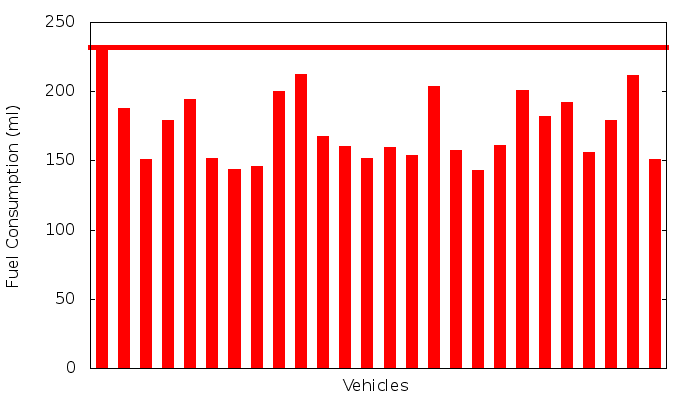
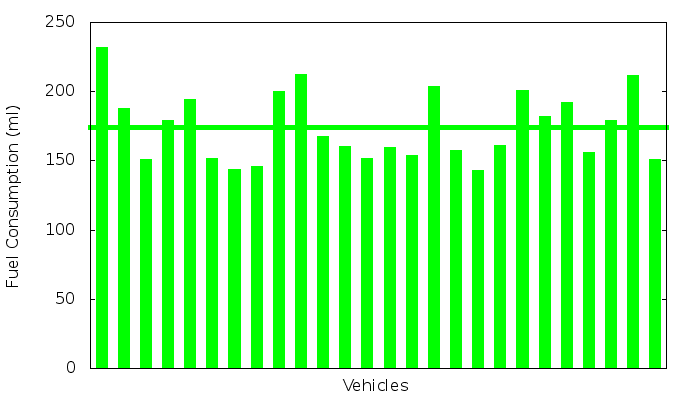
more tests

Changed region(s): [[0.12, 0.09, 0.96, 0.93]]

diff --git a/Article/src/TestResults.tex b/Article/src/TestResults.tex
@@ -33,24 +33,46 @@ The traffic light for this figure is the first junctions driving from Vesterbro.
 The purpose of \tech is to reduce the fuel consumption at least for the vehicles using the system. 
 We use SUMO's build-in function to calculate the vehicles fuel consumption, which is explained in \cite{SUMOFuel}.
 
-%
-
-\begin{comment}
-Figure~\ref{fig:TestResults:fuelRoute} plots the total fuel consumption for all vehicles driving on the selected route. 
-The results clearly show that using \tech in this setup will reduce the fuel consumption significantly.
-Acrose all routes, we see a reduction from an average of 130 $mL$ to an average of 96 $mL$, which is a reduction of 29 \%.
-If we only look at route 1, we observe an average fuel consumption without \tech at 175 $mL$, and 117 $mL$ with \tech.
-This is again a significant reduction in fuel consumption in 33 \%. %TODO fix number
-\end{comment}
-
-\begin{figure}[htb]
-\includegraphics[width=0.5\textwidth]{images/tp0/fuelRouteControlled100.png}
-\caption{Fuel graph}
+The total fuel consumption for all vehicles in the network is plotted in Figure~\ref{fig:TestResults:fuelTotal}.
+Figure~\ref{fig:TestResults:fuelTotal} plots the fuel consumption for all vehicles in the network for two different simulations: one where all vehicles use \tech (blue) and one where no vehicles are using \tech (green).
+The average fuel consumption when all vehicles use \tech is about $77 ml$, and about $108 ml$ when noone use \tech.
+We therefore see a significant overall reduction in fuel consumption in this setting if \tech is used by everybody.
+Looking at just the selected route through the network, we see the same tendency (see Figure~\ref{fig:TestResults:fuelRoute}). 
+The average fuel consumption with \tech is about $114 ml$ and about $166 ml$ without. 
+\begin{figure}[h]
+\includegraphics[width=0.5\textwidth]{images/tp0/fuelTotal.png}
+\caption{Fuel consumption for all vehicles in the network. Blue: 100\% use \tech, green: 0\% use \tech}
+\label{fig:TestResults:fuelTotal}
+\end{figure}
+\begin{figure}[h]
+\includegraphics[width=0.5\textwidth]{images/tp0/fuelRoute.png}
+\caption{Fuel consumption for all vehicles on the selected route}
 \label{fig:TestResults:fuelRoute}
 \end{figure}
 
+It is, however, also interesting to investigate the influence \tech has when only a few drivers use it.
+Figure~\ref{fig:TestResults:fuelControlled10} and~\ref{fig:TestResults:fuelUncontrolled10} plot the fuel consumption for 10\% of the vehicles are using \tech.
+Figure~\ref{fig:TestResults:fuelControlled10} shows the 10 \% using \tech, and Figure~\ref{fig:TestResults:fuelUncontrolled10} show the 90 \% not using \tech.
+We see that the average fuel consumption is about $119 ml$ for the 10 \% using \tech, and about $168$ for the 90 \% not using it.
+The fuel consumption is less for those who use \tech, and the fuel consumption is only increased by $1 ml$ for those who do not use \tech compared to the situation where no vehicles used \tech.
+We see the same results when 50 \% of the vehicles use \tech.
+
+We can therefore conclude that in the tested use case, we see a significate reduction in fuel consumption even when it is only implemented in a small subset of the vehicles. 
+Moreover, vehicles using \tech does not have a negative influence the other fuel consumption of the vehicles.
+
+\begin{figure}[h]
+\includegraphics[width=0.5\textwidth]{images/tp0/fuelRouteControlled10.png}
+\caption{Fuel consumption for the 10 \% of the vehicles driving with \tech on the selected route}
+\label{fig:TestResults:fuelControlled10}
+\end{figure}
+\begin{figure}[h]
+\includegraphics[width=0.5\textwidth]{images/tp0/fuelRouteUncontrolled10.png}
+\caption{Fuel consumption for the 90 \% of the vehicles driving without \tech on the selected route}
+\label{fig:TestResults:fuelUncontrolled10}
+\end{figure}
+
 \subsection{Distance}
-Figure~\ref{fig:TestResults:distance100} shows the distance ?? vehicles drive on route 54 as a function of time when their driving behaviour is solely controled by SUMO. 
+Figure~\ref{fig:TestResults:distance100} shows the distance vehicles drive on the selected route as a function of time when their driving behaviour is solely controlled by SUMO. 
 The vehicle is stationary whenever the curve flatens.
 From the figure we clearly see that the vehicles on this route has to stop four times, at 250 meter, at 550 meters, at 750 meters and again at 1100 metets.
 
@@ -60,30 +82,52 @@ Some vehicles have to stop due to blocking vehicles or cross traffic, which we d
 
 We can therefore see that using \tech results in less full stops.
 
+The results of introducing the system to 10\% of the vehicles can be seen in Figure~\ref{fig:TestResults:distanceUnC10}. 
+The remaning 90\% is for the most part unaffected by the system. 
+There is a few instances where uncontrolled vehicles are forced to slow down and stay behind a slower moving vehicle using the system.
 
-\begin{figure}[htb]
+\begin{figure}[H]
+\includegraphics[width=0.5\textwidth]{images/tp0/distanceUncontrolled10.png}
+\caption{Travel distance for the 90 \% of the vehicles driving without \tech on the selected route}
+\label{fig:TestResults:distanceUnC10}
+\end{figure}
+
+\begin{figure}[H]
 \includegraphics[width=0.5\textwidth]{images/tp0/distanceControlled100.png}
-\caption{Distance graph}
+\caption{Travel distance of vehicles when all drive with \tech on the selected route}
 \label{fig:TestResults:distance100}
 \end{figure}
 
 \subsection{Speed}
-Figure~\ref{fig:TestResults:speed0} shows the speed at which SUMO controlled vehicles on route 54 drive as a function over time.
+Figure~\ref{fig:TestResults:speed0} shows the speed at which SUMO controlled vehicles on the selected route drive as a function over time.
 The graph clearly shows that the vehicles quicly accelerates up to the maximal speed, then quickly decelerates to a full stop and then quickly accelerates again.
 By using \tech we see a very different outline (See Figure~\ref{fig:TestResults:speed100}).
-Few vehicles decelerates to $0 m/s$, and many stay above $5 m/s$ ($18 km/h$ or $11$ miles per hour ($mph$)).
-We do, however, still see a large fluctuation.
-\begin{figure}[htb]
+Few vehicles decelerates to $0\ km/h$, and most stay above $14\ km/h$.
+
+Again, the result of introducing the system to 10\% of the vehicles can be seen in Figure \ref{fig:TestResults:speedUnC10}. 
+The remaning 90\% is almoste unaffected by the system.
+
+\begin{figure}[H]
+\includegraphics[width=0.5\textwidth]{images/tp0/speedUncontrolled10.png}
+\caption{Velocity for the 90 \% of the vehicles driving without \tech on the selected route}
+\label{fig:TestResults:speedUnC10}
+\end{figure}
+
+\begin{figure}[H]
 \includegraphics[width=0.5\textwidth]{images/tp0/speedControlled100.png}
-\caption{Speed graph}
+\caption{Velocity of vehicles when all drive with \tech on the selected route}
 \label{fig:TestResults:speed100}
 \end{figure}
 
 
-
 \subsection{Time}
-It is interesting to investigate wether driving after \tech results in longer travel time than without.
-It takes on average 114 seconds to drive a route in our test without \tech, and when all vehicles drive with \tech it takes 111 seconds. 
-We therefore do not see any significant differens in thees results.
+%TODO: Find error in these results. They are all 100.
+\begin{comment}
+It is interesting to investigate whether driving with \tech results in a longer travel time than without.
 
+
+It takes on average 100 seconds to drive through the network on any route in our test without \tech, and when all vehicles drive with \tech it takes 77 seconds. 
+
+We therefore do not see any significant differens in thees results.
+\end{comment}
 

diff --git a/Article/imgGen.py b/Article/imgGen.py
@@ -28,14 +28,18 @@ if(len(sys.argv) > 3):
 	
 	elif sys.argv[1].find("fuel_") > 0:
 		conType = sys.argv[1][:sys.argv[1].find("_")]
+		if conType == "controlled":
+			color = "\"blue\""
+		else:
+			color = "\"green\""
 		percent = sys.argv[1][sys.argv[1].rfind("_")+1:]
 		print "set ylabel 'Fuel Consumption (ml)'"
 		print "set xlabel 'Vehicles'"
 		print "set boxwidth 0.5 absolute"
 		print "set yrange[0:250]"
 		print "unset xtics"
-		datafile = "\"TestResults/" + dataset + "/"+percent+"/" + route+ "/"+conType+"/totalFuel.dat\""
-		print "plot "+ datafile + " with boxes fill solid lc rgb \"red\", `head -1 "+ datafile + " | awk '{print $2}'` lt 1 lw 5 lc rgb \"red\""
+		datafile = "\"TestResults/" + dataset + "/"+percent+"/" + route+ "/"+conType
+		print "plot "+ datafile+"/totalFuel.dat\"" + " with boxes fill solid lc rgb " + color + ", `head -1 "+ datafile+"/avg.dat\"" + " | awk '{print $2}'` lt 1 lw 5 lc rgb " + color
 		
 	elif sys.argv[1] == "fuelTotal":
 		print "set ylabel 'Fuel Consumption (ml)'"
@@ -49,6 +53,10 @@ if(len(sys.argv) > 3):
 	
 	elif sys.argv[1].find("_fuelTotal") > 0:
 		conType = sys.argv[1][:sys.argv[1].find("_")]
+		if conType == "controlled":
+			color = "\"blue\""
+		else:
+			color = "\"green\""
 		percent = sys.argv[1][sys.argv[1].rfind("_")+1:]
 		print "set ylabel 'Fuel Consumption (ml)'"
 		print "set xlabel 'Vehicles'"
@@ -56,8 +64,8 @@ if(len(sys.argv) > 3):
 		print "set yrange [0:250]"
 		print "set boxwidth 0.5 absolute"
 		print "unset xtics"
-		datafile = "\"TestResults/" + dataset + "/"+percent + "/" + conType +"/totalFuel.dat\""
-		print "plot "+ datafile + " using ($1+0.25):2 with boxes fill solid lc rgb \"green\", `head -1 "+ datafile + " | awk '{print $2}'` lt 1 lw 5 lc rgb \"green\""
+		datafile = "\"TestResults/" + dataset + "/"+percent + "/" + conType
+		print "plot "+ datafile +"/totalFuel.dat\""+ " using ($1+0.25):2 with boxes fill solid lc rgb " + color + ", `head -1 "+ datafile +"/avg.dat\"" + " | awk '{print $2}'` lt 1 lw 5 lc rgb " + color
 		
 	elif sys.argv[1].find("distance") > 0:
 		datasetPercentage = sys.argv[1][sys.argv[1].rfind("_")+1:]

diff --git a/Tester/GSC/Test.py b/Tester/GSC/Test.py
@@ -176,7 +176,7 @@ def flushDataCollection(percent, path = "default"):
 		controlled_no_vehicles = len(temp)
 		if controlled_no_vehicles > 0:
 			controlledAvgChart = open(outputPath + "/" + str(routeId)+ "/controlled/avg.dat", "w")
-			print >> controlledAvgChart, str(controlledTravelTime/controlled_no_vehicles) + "\t" + str(controlledFuel/controlled_no_vehicles) + 'hej'
+			print >> controlledAvgChart, str(controlledTravelTime/controlled_no_vehicles) + "\t" + str(controlledFuel/controlled_no_vehicles)
 			controlledAvgChart.close()
 
 		uncontrolled_no_vehicles = no_vehicles - controlled_no_vehicles

diff --git a/Article/preamble.tex b/Article/preamble.tex
@@ -123,7 +123,7 @@
 
 \newcommand{\heltal}{\ensuremath{\mathbb{N}}\xspace}
 
-\newcommand{\tech}{RFCATL\xspace}
+\newcommand{\tech}{FuelReducer\xspace}
 \newcommand{\acc}{\ensuremath{acc}\xspace}
 \newcommand{\dec}{\ensuremath{dec}\xspace}
 \newcommand{\light}{\ensuremath{f}\xspace}
